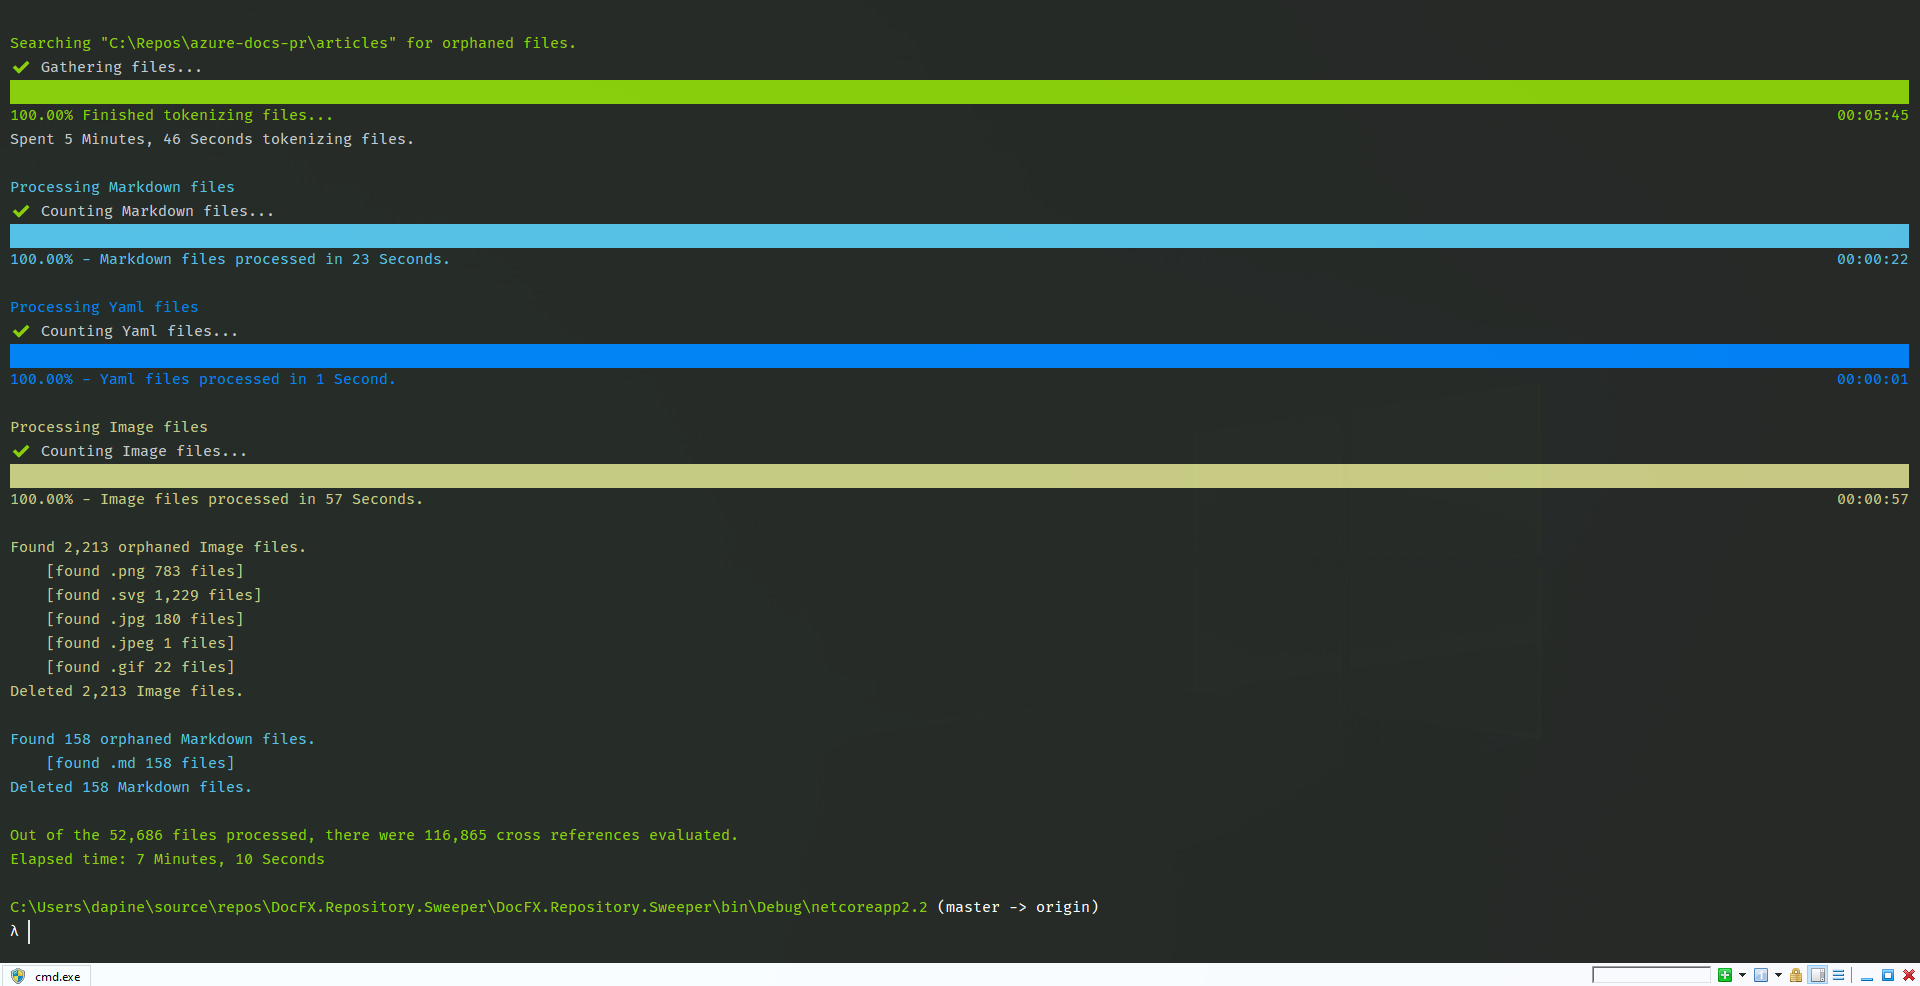
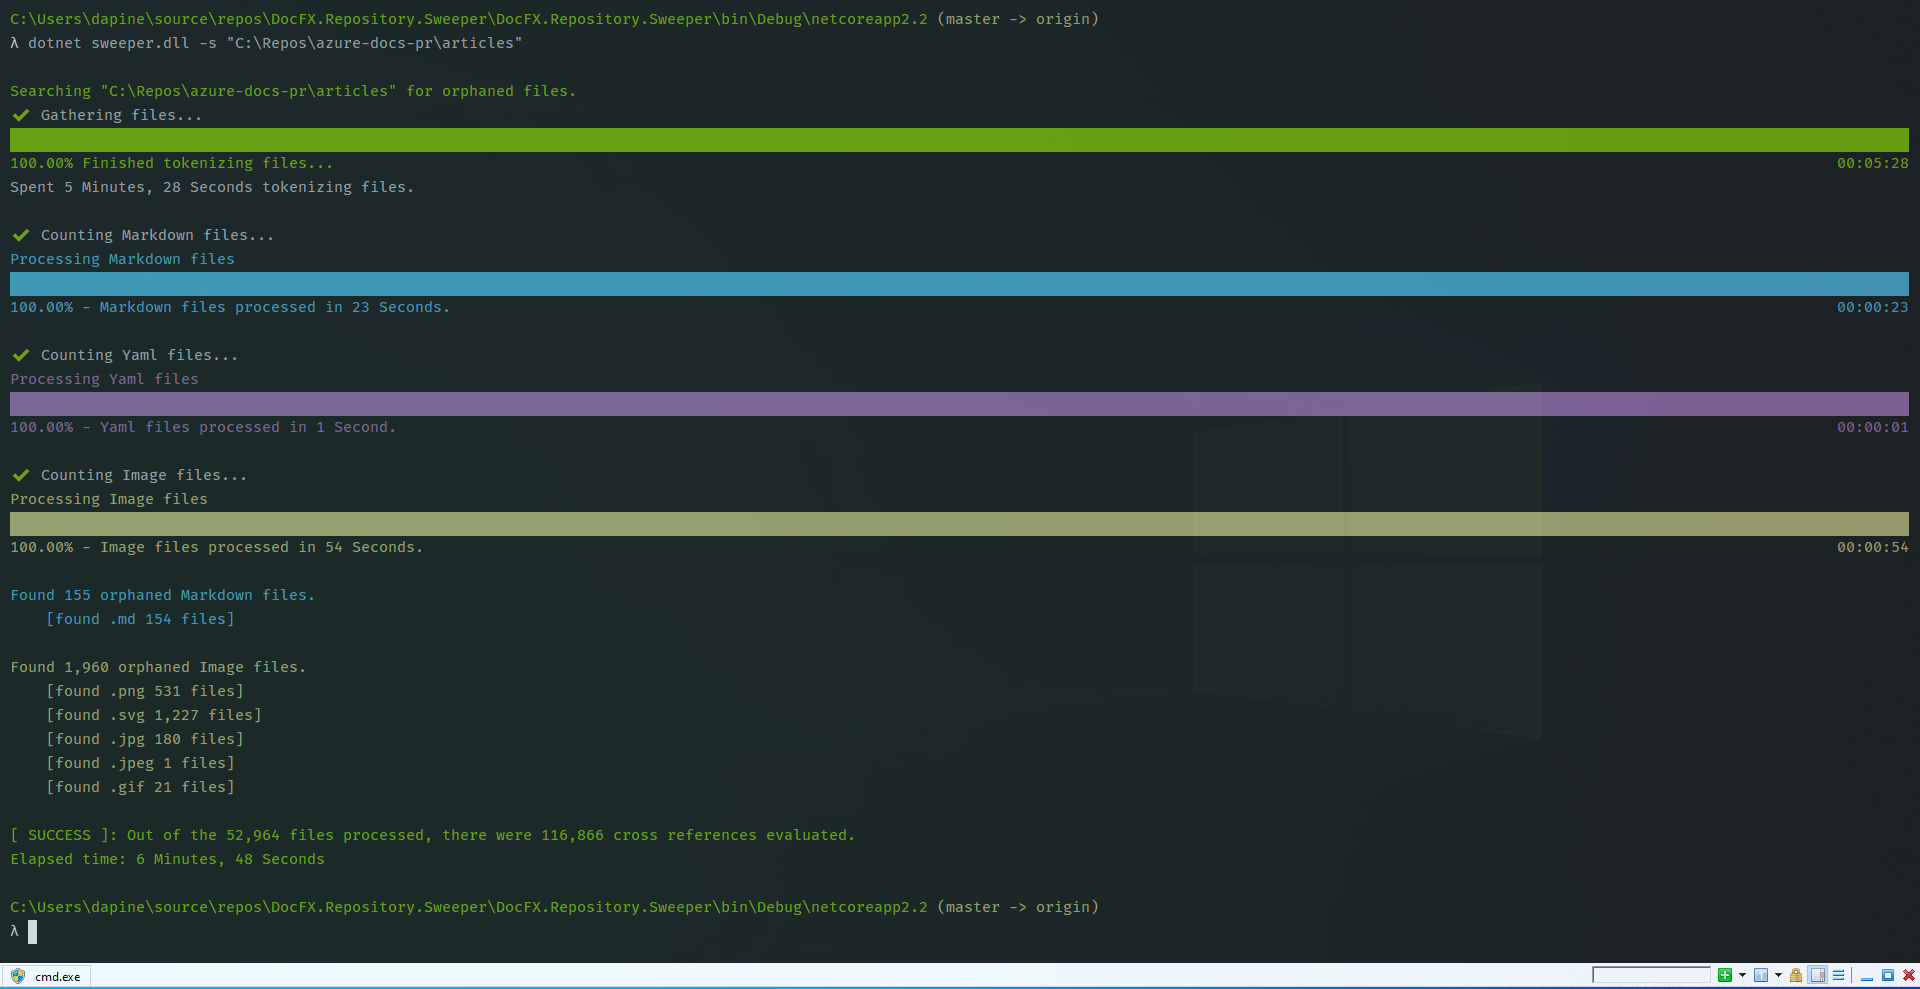
...

diff --git a/DocFX.Repository.Sweeper/Core/RepoSweeper.cs b/DocFX.Repository.Sweeper/Core/RepoSweeper.cs
@@ -1,4 +1,5 @@
 using DocFX.Repository.Sweeper.Extensions;
+using DocFX.Repository.Sweeper.OpenPublishing;
 using Kurukuru;
 using ShellProgressBar;
 using System;
@@ -107,12 +108,12 @@ namespace DocFX.Repository.Sweeper.Core
 
             if (options.FindOrphanedTopics)
             {
-                HandleFoundFiles(orphanedTopics, FileType.Markdown, options);
+                await HandleFoundFilesAsync(orphanedTopics, FileType.Markdown, options);
             }
 
             if (options.FindOrphanedImages)
             {
-                HandleFoundFiles(orphanedImages, FileType.Image, options);
+                await HandleFoundFilesAsync(orphanedImages, FileType.Image, options);
             }
 
             return new SweepSummary
@@ -144,7 +145,7 @@ namespace DocFX.Repository.Sweeper.Core
         static bool IsRelevantToken(FileType fileType)
             => fileType != FileType.NotRelevant && fileType != FileType.Json;
 
-        static void HandleFoundFiles(ISet<string> files, FileType type, Options options)
+        static async Task HandleFoundFilesAsync(ISet<string> files, FileType type, Options options)
         {
             if (files.Any())
             {
@@ -160,6 +161,12 @@ namespace DocFX.Repository.Sweeper.Core
 
                 if (options.Delete)
                 {
+                    if (type == FileType.Markdown)
+                    {
+                        await Task.CompletedTask;
+                        // await HandleRedirectionAsync(files, options);
+                    }
+
                     foreach (var file in files.Where(File.Exists))
                     {
                         if (options.OutputDeletedFiles)
@@ -175,6 +182,44 @@ namespace DocFX.Repository.Sweeper.Core
 
                 Console.WriteLine();
             }
+        }
+
+        static async Task HandleRedirectionAsync(ISet<string> files, Options options)
+        {
+            var redirection = 
+                await FindFileAsync<Redirection>(
+                    ".openpublishing.redirection.json",
+                    options.SourceDirectory);
+
+            if (redirection?.Redirections.Any() ?? false)
+            {
+
+                // foreach file order by path
+                // get directory
+                // from dir find TOC.yml, if there is not an INDEX.yml file... then find the top-level .md
+                // If the INDEX contains "documentType: LandingData" then we're done
+
+                // EXAMPLE:
+                // 
+                // { 
+                //     "source_path": "articles/cognitive-services/Computer-vision/QuickStarts/curl-disk.md",
+                //     "redirect_url": "/azure/cognitive-services/computer-vision",
+                //     "redirect_document_id": false
+                // }
+            }
+        }
+
+        private static async Task<T> FindFileAsync<T>(string filename, string directory)
+        {
+            var dir = new DirectoryInfo(directory).TraverseToFile(filename);
+            var filepath = Path.Combine(dir.FullName, filename);
+            if (File.Exists(filepath))
+            {
+                var json = await File.ReadAllTextAsync(filepath);
+                return json.FromJson<T>();
+            }
+
+            return default;
         }
     }
 }

diff --git a/DocFX.Repository.Sweeper/Core/FileTokenizer.cs b/DocFX.Repository.Sweeper/Core/FileTokenizer.cs
@@ -15,7 +15,7 @@ namespace DocFX.Repository.Sweeper.Core
         public async Task<(TokenizationStatus, IDictionary<FileType, IList<FileToken>>)> TokenizeAsync(Options options)
         {
             var directoryLength = options.SourceDirectory.Length;
-            var dir = FindDocFxRootDirectory(new DirectoryInfo(options.SourceDirectory));
+            var dir = new DirectoryInfo(options.SourceDirectory).TraverseToFile("docfx.json");
             if (dir is null)
             {
                 return (TokenizationStatus.Error, null);
@@ -58,29 +58,6 @@ namespace DocFX.Repository.Sweeper.Core
             }
 
             return (TokenizationStatus.Success, map);
-        }
-
-        static DirectoryInfo FindDocFxRootDirectory(DirectoryInfo sourceDirectory)
-        {
-            try
-            {
-                while (sourceDirectory.GetFiles("docfx.json", SearchOption.TopDirectoryOnly).Length == 0)
-                {
-                    sourceDirectory = sourceDirectory.Parent;
-                    if (sourceDirectory == sourceDirectory?.Root)
-                    {
-                        Console.WriteLine("Could not find a directory containing docfx.json.");
-                        return null;
-                    }
-                }
-            }
-            catch (DirectoryNotFoundException)
-            {
-                Console.WriteLine($"Could not find directory {sourceDirectory.FullName}");
-                return null;
-            }
-
-            return sourceDirectory;
         }
 
         static string ToRelativePath(string filePath, int directoryLength)

diff --git a/DocFX.Repository.Sweeper/Extensions/DirectoryInfoExtensions.cs b/DocFX.Repository.Sweeper/Extensions/DirectoryInfoExtensions.cs
@@ -1,0 +1,31 @@
+using System;
+using System.IO;
+
+namespace DocFX.Repository.Sweeper.Extensions
+{
+    static class DirectoryInfoExtensions
+    {
+        internal static DirectoryInfo TraverseToFile(this DirectoryInfo directory, string filename)
+        {
+            try
+            {
+                while (directory.GetFiles(filename, SearchOption.TopDirectoryOnly).Length == 0)
+                {
+                    directory = directory.Parent;
+                    if (directory == directory?.Root)
+                    {
+                        Console.WriteLine($"Could not find a directory containing {filename}.");
+                        return null;
+                    }
+                }
+            }
+            catch (DirectoryNotFoundException)
+            {
+                Console.WriteLine($"Could not find directory {directory.FullName}");
+                return null;
+            }
+
+            return directory;
+        }
+    }
+}
